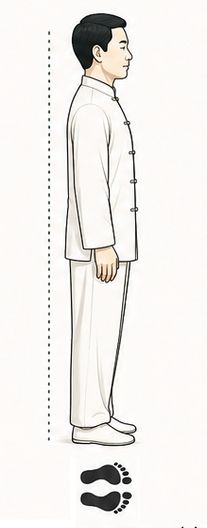
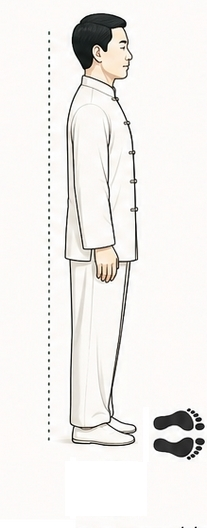
Add files via upload

Changed region(s): [[0.7246, 0.7576, 0.9855, 0.8788], [0.3768, 0.8788, 0.6377, 0.9697]]

diff --git a/lecon1/lecon1-2-2-fondamentale.html b/lecon1/lecon1-2-2-fondamentale.html
@@ -12,17 +12,32 @@ body {
 <body>
 <table width="800" border="0" align="center" cellpadding="0" cellspacing="0">
   <tr>
-    <td colspan="2" align="center" bgcolor="#FFFFFF"><span class="vert-foncé-24">Les premières bases du Qi Gong<br />
-      <br />
-      Posture fondamentale<br />
-      </span><span class="vert-16-centre">Ouverture - Equilibre</span><span class="vert-foncé-24"><br />
-    </span></td>
+    <td colspan="2" align="center" bgcolor="#FFFFFF"><span class="vert-foncé-24">Les premières bases du Qi Gong</span><span class="vert-foncé-24"><br>
+        <br />
+    </span>
+      <table width="600" border="0" align="center" cellpadding="0" cellspacing="0">
+        <tr>
+          <td width="200" align="center" bgcolor="#FFFF99" class="vert-foncé-24">&nbsp;</td>
+          <td width="200" align="center" bgcolor="#FFFF99" class="vert-foncé-24"><span class="vert-clair-fond-fonce-gras-24">Posture<br>
+            </span><span class="noir-14-centre">.</span><span class="vert-clair-fond-fonce-gras-24"><br>
+            </span></td>
+          <td align="center" bgcolor="#FFFF99" class="vert-foncé-24">&nbsp;</td>
+        </tr>
+        <tr>
+          <td align="center" bgcolor="#FFFF99" class="vert-foncé-24"><a href="lecon1-1-1-initiale.html" target="_self" class="bleu-14">Initiale</a><span class="vert-16-centre"><br>
+            Debout - Zhan Zhuang</span></td>
+          <td align="center" bgcolor="#FFFF99" class="vert-foncé-24"><p><span class="vert-clair-fond-fonce-gras-24">Fondamentale</span><br>
+            <span class="vert-16-centre">Ouverture - Equilibre</span></p></td>
+          <td align="center" bgcolor="#FFFF99" class="vert-foncé-24"><a href="lecon1-3-1-cavalier.html" target="_self" class="bleu-14">Du cavalier</a><br>
+            <span class="vert-16-centre">Ma Bu</span></td>
+        </tr>
+      </table></td>
   </tr>
   <tr>
     <td width="400" align="center" bgcolor="#FFFFFF"><a href="lecon1-2-1-fondamentale.html" target="_self"><img src="2-2-fondamentale.jpg" alt="Qi Gong - Posture fondamentale profil" width="224" height="528" border="0" /></a></td>
     <td align="left" valign="top" bgcolor="#FFFFFF" class="vert-16-gauche"><br />
       <span class="vert-foncé-20-gauche"><br />
-    * Debout, pieds écartés à la largeur des épaules<br />
+    * Debout, pieds écartés de la largeur des épaules<br />
     <br />
     * Genoux légèrement fléchis<br />
     <br />
@@ -39,14 +54,6 @@ body {
     <td align="center" bgcolor="#FBFAF8"><span class="vert-14-centre">En cliquant sur le pratiquant vous passez<br />
       d'une vue de profil à une vue de face</span></td>
     <td align="center" valign="top" bgcolor="#FBFAF8" class="vert-16-centre">&nbsp;</td>
-  </tr>
-  <tr>
-    <td align="center" bgcolor="#C8FFC8">&nbsp;</td>
-    <td align="center" valign="top" bgcolor="#C8FFC8" class="vert-16-centre">&nbsp;</td>
-  </tr>
-  <tr>
-    <td align="center" bgcolor="#FFFFFF"><a href="lecon1-1-1-initiale.html" target="_self" class="bleu-14">Revoir la Posture initiale</a></td>
-    <td align="center" valign="top" bgcolor="#FFFFFF" class="vert-16-centre"><a href="lecon1-3-1-cavalier.html" target="_self" class="bleu-14">Voir la Posture cavalier</a></td>
   </tr>
 </table>
 <br />

diff --git a/lecon1/lecon1-2-1-fondamentale.html b/lecon1/lecon1-2-1-fondamentale.html
@@ -12,17 +12,32 @@ body {
 <body>
 <table width="800" border="0" align="center" cellpadding="0" cellspacing="0">
   <tr>
-    <td colspan="2" align="center" bgcolor="#FFFFFF"><span class="vert-foncé-24">Les premières bases du Qi Gong<br />
-      <br />
-      Posture fondamentale<br />
-      </span><span class="vert-16-centre">Ouverture - Equilibre</span><span class="vert-foncé-24"><br />
-    </span></td>
+    <td colspan="2" align="center" bgcolor="#FFFFFF"><span class="vert-foncé-24">Les premières bases du Qi Gong</span><span class="vert-foncé-24"><br>
+        <br />
+    </span>
+      <table width="600" border="0" align="center" cellpadding="0" cellspacing="0">
+        <tr>
+          <td width="200" align="center" bgcolor="#FFFF99" class="vert-foncé-24">&nbsp;</td>
+          <td width="200" align="center" bgcolor="#FFFF99" class="vert-foncé-24"><span class="vert-clair-fond-fonce-gras-24">Posture<br>
+            </span><span class="noir-14-centre">.</span><span class="vert-clair-fond-fonce-gras-24"><br>
+            </span></td>
+          <td align="center" bgcolor="#FFFF99" class="vert-foncé-24">&nbsp;</td>
+        </tr>
+        <tr>
+          <td align="center" bgcolor="#FFFF99" class="vert-foncé-24"><a href="lecon1-1-1-initiale.html" target="_self" class="bleu-14">Initiale</a><span class="vert-16-centre"><br>
+            Debout - Zhan Zhuang</span></td>
+          <td align="center" bgcolor="#FFFF99" class="vert-foncé-24"><p><span class="vert-clair-fond-fonce-gras-24">Fondamentale</span><br>
+          <span class="vert-16-centre">Ouverture - Equilibre</span></p></td>
+          <td align="center" bgcolor="#FFFF99" class="vert-foncé-24"><a href="lecon1-3-1-cavalier.html" target="_self" class="bleu-14">Du cavalier</a><br>
+          <span class="vert-16-centre">Ma Bu</span></td>
+        </tr>
+      </table></td>
   </tr>
   <tr>
     <td width="400" align="center" bgcolor="#FFFFFF"><a href="lecon1-2-2-fondamentale.html" target="_self"><img src="2-1-fondamentale.jpg" alt="Qi Gong - Posture fondamentale face" width="258" height="528" border="0" /></a></td>
     <td align="left" valign="top" bgcolor="#FFFFFF" class="vert-16-gauche"><br />
       <span class="vert-foncé-20-gauche"><br />
-    * Debout, pieds écartés à la largeur des épaules<br />
+    * Debout, pieds écartés de la largeur des épaules<br />
     <br />
     * Genoux légèrement fléchis<br />
     <br />
@@ -39,14 +54,6 @@ body {
     <td align="center" bgcolor="#FBFAF8"><span class="vert-14-centre">En cliquant sur le pratiquant vous passez<br />
       d'une vue de face à une vue de profil</span></td>
     <td align="center" valign="top" bgcolor="#FBFAF8" class="vert-16-centre">&nbsp;</td>
-  </tr>
-  <tr>
-    <td align="center" bgcolor="#C8FFC8">&nbsp;</td>
-    <td align="center" valign="top" bgcolor="#C8FFC8" class="vert-16-centre">&nbsp;</td>
-  </tr>
-  <tr>
-    <td align="center" bgcolor="#FFFFFF"><a href="lecon1-1-1-initiale.html" target="_self" class="bleu-14">Revoir la Posture initiale</a></td>
-    <td align="center" valign="top" bgcolor="#FFFFFF" class="vert-16-centre"><a href="lecon1-3-1-cavalier.html" target="_self" class="bleu-14">Voir la Posture cavalier</a></td>
   </tr>
 </table>
 <br />

diff --git a/lecon1/lecon1-1-2-initiale.html b/lecon1/lecon1-1-2-initiale.html
@@ -12,11 +12,26 @@ body {
 <body>
 <table width="800" border="0" align="center" cellpadding="0" cellspacing="0">
   <tr>
-    <td colspan="2" align="center" bgcolor="#FFFFFF"><span class="vert-foncé-24">Les premières bases du Qi Gong<br />
-      <br />
-      Posture initiale<br />
-      </span><span class="vert-16-centre">Debout - Zhan Zhuang</span><span class="vert-foncé-24"><br />
-    </span></td>
+    <td colspan="2" align="center" bgcolor="#FFFFFF"><span class="vert-foncé-24">Les premières bases du Qi Gong</span><span class="vert-foncé-24"><br>
+        <br />
+    </span>
+      <table width="600" border="0" align="center" cellpadding="0" cellspacing="0">
+        <tr>
+          <td width="200" align="center" bgcolor="#FFFF99" class="vert-foncé-24">&nbsp;</td>
+          <td width="200" align="center" bgcolor="#FFFF99" class="vert-foncé-24"><span class="vert-clair-fond-fonce-gras-24">Posture<br>
+            </span><span class="noir-14-centre">.</span><span class="vert-clair-fond-fonce-gras-24"><br>
+            </span></td>
+          <td align="center" bgcolor="#FFFF99" class="vert-foncé-24">&nbsp;</td>
+        </tr>
+        <tr>
+          <td width="200" align="center" bgcolor="#FFFF99" class="vert-foncé-24"><span class="vert-clair-fond-fonce-gras-24">Initiale</span><span class="vert-16-centre"><br>
+            Debout - Zhan Zhuang</span></td>
+          <td width="200" align="center" bgcolor="#FFFF99" class="vert-foncé-24"><p><a href="lecon1-2-1-fondamentale.html" target="_self" class="bleu-14">Fondamentale</a><br>
+            <span class="vert-16-centre">Ouverture - Equilibre</span></p></td>
+          <td align="center" bgcolor="#FFFF99" class="vert-foncé-24"><a href="lecon1-3-1-cavalier.html" target="_self" class="bleu-14">Du cavalier</a><br>
+            <span class="vert-16-centre">Ma Bu</span></td>
+        </tr>
+      </table></td>
   </tr>
   <tr>
     <td width="400" align="center" bgcolor="#FFFFFF"><a href="lecon1-1-1-initiale.html" target="_self"><img src="1-2-initiale.jpg" alt="Qi Gong - Posture initiale profil" width="207" height="528" border="0" /></a></td>
@@ -41,14 +56,6 @@ body {
     <td align="center" bgcolor="#FBFAF8"><span class="vert-14-centre">En cliquant sur le pratiquant vous passez<br />
       d'une vue de profil à une vue de face</span></td>
     <td align="center" valign="top" bgcolor="#FBFAF8" class="vert-16-centre">&nbsp;</td>
-  </tr>
-  <tr>
-    <td align="center" bgcolor="#C8FFC8">&nbsp;</td>
-    <td align="center" valign="top" bgcolor="#C8FFC8" class="vert-16-centre">&nbsp;</td>
-  </tr>
-  <tr>
-    <td align="center" bgcolor="#FFFFFF">&nbsp;</td>
-    <td align="center" valign="top" bgcolor="#FFFFFF" class="vert-16-centre"><a href="lecon1-2-1-fondamentale.html" target="_self" class="bleu-14">Voir la Posture fondamentale</a></td>
   </tr>
 </table>
 <br />

diff --git a/lecon1/lecon1-3-2-cavalier.html b/lecon1/lecon1-3-2-cavalier.html
@@ -12,11 +12,26 @@ body {
 <body>
 <table width="800" border="0" align="center" cellpadding="0" cellspacing="0">
   <tr>
-    <td colspan="2" align="center" bgcolor="#FFFFFF"><span class="vert-foncé-24">Les premières bases du Qi Gong<br />
-      <br />
-      Posture cavalier<br />
-      </span><span class="vert-16-centre">Ma Bu</span><span class="vert-foncé-24"><br />
-    </span></td>
+    <td colspan="2" align="center" bgcolor="#FFFFFF"><span class="vert-foncé-24">Les premières bases du Qi Gong</span><span class="vert-foncé-24"><br>
+        <br />
+    </span>
+      <table width="600" border="0" align="center" cellpadding="0" cellspacing="0">
+        <tr>
+          <td width="200" align="center" bgcolor="#FFFF99" class="vert-foncé-24">&nbsp;</td>
+          <td width="200" align="center" bgcolor="#FFFF99" class="vert-foncé-24"><span class="vert-clair-fond-fonce-gras-24">Posture<br>
+            </span><span class="noir-14-centre">.</span><span class="vert-clair-fond-fonce-gras-24"><br>
+            </span></td>
+          <td align="center" bgcolor="#FFFF99" class="vert-foncé-24">&nbsp;</td>
+        </tr>
+        <tr>
+          <td align="center" bgcolor="#FFFF99" class="vert-foncé-24"><a href="lecon1-1-1-initiale.html" target="_self" class="bleu-14">Initiale</a><span class="vert-16-centre"><br>
+            Debout - Zhan Zhuang</span></td>
+          <td align="center" bgcolor="#FFFF99" class="vert-foncé-24"><p><a href="lecon1-2-1-fondamentale.html" target="_self" class="bleu-14">Fondamentale</a><br>
+            <span class="vert-16-centre">Ouverture - Equilibre</span></p></td>
+          <td align="center" bgcolor="#FFFF99" class="vert-foncé-24"><span class="vert-clair-fond-fonce-gras-24">Du cavalier</span><br>
+            <span class="vert-16-centre">Ma Bu</span></td>
+        </tr>
+      </table></td>
   </tr>
   <tr>
     <td width="400" align="center" bgcolor="#FFFFFF"><a href="lecon1-3-1-cavalier.html" target="_self"><img src="3-2-cavalier.jpg" alt="Qi Gong - Posture du cavalier profil" width="303" height="528" border="0" /></a></td>
@@ -44,14 +59,6 @@ body {
     <td align="center" bgcolor="#FBFAF8"><span class="vert-14-centre">En cliquant sur le pratiquant vous passez<br />
       d'une vue de profil à une vue de face</span></td>
     <td align="center" valign="top" bgcolor="#FBFAF8" class="vert-16-centre">&nbsp;</td>
-  </tr>
-  <tr>
-    <td align="center" bgcolor="#C8FFC8">&nbsp;</td>
-    <td align="center" valign="top" bgcolor="#C8FFC8" class="vert-16-centre">&nbsp;</td>
-  </tr>
-  <tr>
-    <td align="center" bgcolor="#FFFFFF"><a href="lecon1-2-1-fondamentale.html" target="_self" class="bleu-14"><span class="bleu-14">Revoir la Posture fondamentale</span></a></td>
-    <td align="center" valign="top" bgcolor="#FFFFFF" class="vert-16-centre">&nbsp;</td>
   </tr>
 </table>
 <br />

diff --git a/lecon1/lecon1-3-1-cavalier.html b/lecon1/lecon1-3-1-cavalier.html
@@ -12,11 +12,26 @@ body {
 <body>
 <table width="800" border="0" align="center" cellpadding="0" cellspacing="0">
   <tr>
-    <td colspan="2" align="center" bgcolor="#FFFFFF"><span class="vert-foncé-24">Les premières bases du Qi Gong<br />
-      <br />
-      Posture cavalier<br />
-      </span><span class="vert-16-centre">Ma Bu</span><span class="vert-foncé-24"><br />
-    </span></td>
+    <td colspan="2" align="center" bgcolor="#FFFFFF"><span class="vert-foncé-24">Les premières bases du Qi Gong</span><span class="vert-foncé-24"><br>
+        <br />
+    </span>
+      <table width="600" border="0" align="center" cellpadding="0" cellspacing="0">
+        <tr>
+          <td width="200" align="center" bgcolor="#FFFF99" class="vert-foncé-24">&nbsp;</td>
+          <td width="200" align="center" bgcolor="#FFFF99" class="vert-foncé-24"><span class="vert-clair-fond-fonce-gras-24">Posture<br>
+            </span><span class="noir-14-centre">.</span><span class="vert-clair-fond-fonce-gras-24"><br>
+            </span></td>
+          <td align="center" bgcolor="#FFFF99" class="vert-foncé-24">&nbsp;</td>
+        </tr>
+        <tr>
+          <td align="center" bgcolor="#FFFF99" class="vert-foncé-24"><a href="lecon1-1-1-initiale.html" target="_self" class="bleu-14">Initiale</a><span class="vert-16-centre"><br>
+            Debout - Zhan Zhuang</span></td>
+          <td align="center" bgcolor="#FFFF99" class="vert-foncé-24"><p><a href="lecon1-2-1-fondamentale.html" target="_self" class="bleu-14">Fondamentale</a><br>
+          <span class="vert-16-centre">Ouverture - Equilibre</span></p></td>
+          <td align="center" bgcolor="#FFFF99" class="vert-foncé-24"><span class="vert-clair-fond-fonce-gras-24">Du cavalier</span><br>
+          <span class="vert-16-centre">Ma Bu</span></td>
+        </tr>
+      </table></td>
   </tr>
   <tr>
     <td width="400" align="center" bgcolor="#FFFFFF"><a href="lecon1-3-2-cavalier.html" target="_self"><img src="3-1-cavalier.jpg" alt="Qi Gong - Posture du cavalier face" width="336" height="528" border="0" /></a></td>
@@ -44,14 +59,6 @@ body {
     <td align="center" bgcolor="#FBFAF8"><span class="vert-14-centre">En cliquant sur le pratiquant vous passez<br />
       d'une vue de face à une vue de profil</span></td>
     <td align="center" valign="top" bgcolor="#FBFAF8" class="vert-16-centre">&nbsp;</td>
-  </tr>
-  <tr>
-    <td align="center" bgcolor="#C8FFC8">&nbsp;</td>
-    <td align="center" valign="top" bgcolor="#C8FFC8" class="vert-16-centre">&nbsp;</td>
-  </tr>
-  <tr>
-    <td align="center" bgcolor="#FFFFFF"><a href="lecon1-2-1-fondamentale.html" target="_self" class="bleu-14"><span class="bleu-14">Revoir la Posture fondamentale</span></a></td>
-    <td align="center" valign="top" bgcolor="#FFFFFF" class="vert-16-centre">&nbsp;</td>
   </tr>
 </table>
 <br />

diff --git a/lecon1/lecon1-1-1-initiale.html b/lecon1/lecon1-1-1-initiale.html
@@ -12,11 +12,26 @@ body {
 <body>
 <table width="800" border="0" align="center" cellpadding="0" cellspacing="0">
   <tr>
-    <td colspan="2" align="center" bgcolor="#FFFFFF"><span class="vert-foncé-24">Les premières bases du Qi Gong<br />
-      <br />
-      Posture initiale<br />
-      </span><span class="vert-16-centre">Debout - Zhan Zhuang</span><span class="vert-foncé-24"><br />
-    </span></td>
+    <td colspan="2" align="center" bgcolor="#FFFFFF"><span class="vert-foncé-24">Les premières bases du Qi Gong<br>
+    </span><span class="vert-foncé-24"><br>
+      </span>
+      <table width="600" border="0" align="center" cellpadding="0" cellspacing="0">
+        <tr>
+          <td width="200" align="center" bgcolor="#FFFF99" class="vert-foncé-24">&nbsp;</td>
+          <td width="200" align="center" bgcolor="#FFFF99" class="vert-foncé-24"><span class="vert-clair-fond-fonce-gras-24">Posture<br>
+            </span><span class="noir-14-centre">.</span><span class="vert-clair-fond-fonce-gras-24"><br>
+          </span></td>
+          <td align="center" bgcolor="#FFFF99" class="vert-foncé-24">&nbsp;</td>
+        </tr>
+        <tr>
+          <td width="200" align="center" bgcolor="#FFFF99" class="vert-foncé-24"><span class="vert-clair-fond-fonce-gras-24">Initiale</span><span class="vert-16-centre"><br>
+            Debout - Zhan Zhuang</span></td>
+          <td width="200" align="center" bgcolor="#FFFF99" class="vert-foncé-24"><p><a href="lecon1-2-1-fondamentale.html" target="_self" class="bleu-14">Fondamentale</a><br>
+            <span class="vert-16-centre">Ouverture - Equilibre</span></p></td>
+          <td align="center" bgcolor="#FFFF99" class="vert-foncé-24"><a href="lecon1-3-1-cavalier.html" target="_self" class="bleu-14">Du cavalier</a><br>
+            <span class="vert-16-centre">Ma Bu</span></td>
+        </tr>
+    </table></td>
   </tr>
   <tr>
     <td width="400" align="center" bgcolor="#FFFFFF"><a href="lecon1-1-2-initiale.html" target="_self"><img src="1-1-initiale.jpg" alt="Qi Gong - Posture initiale face" width="336" height="528" border="0" /></a></td>
@@ -46,14 +61,6 @@ body {
     <td align="center" bgcolor="#FBFAF8"><span class="vert-14-centre">En cliquant sur le pratiquant vous passez<br />
     d'une vue de face à une vue de profil</span></td>
     <td align="center" valign="top" bgcolor="#FBFAF8" class="vert-16-centre">&nbsp;</td>
-  </tr>
-  <tr>
-    <td align="center" bgcolor="#C8FFC8">&nbsp;</td>
-    <td align="center" valign="top" bgcolor="#C8FFC8" class="vert-16-centre">&nbsp;</td>
-  </tr>
-  <tr>
-    <td align="center" bgcolor="#FFFFFF">&nbsp;</td>
-    <td align="center" valign="top" bgcolor="#FFFFFF" class="vert-16-centre"><a href="lecon1-2-1-fondamentale.html" target="_self" class="bleu-14">Voir la Posture fondamentale</a></td>
   </tr>
 </table>
 <br />
